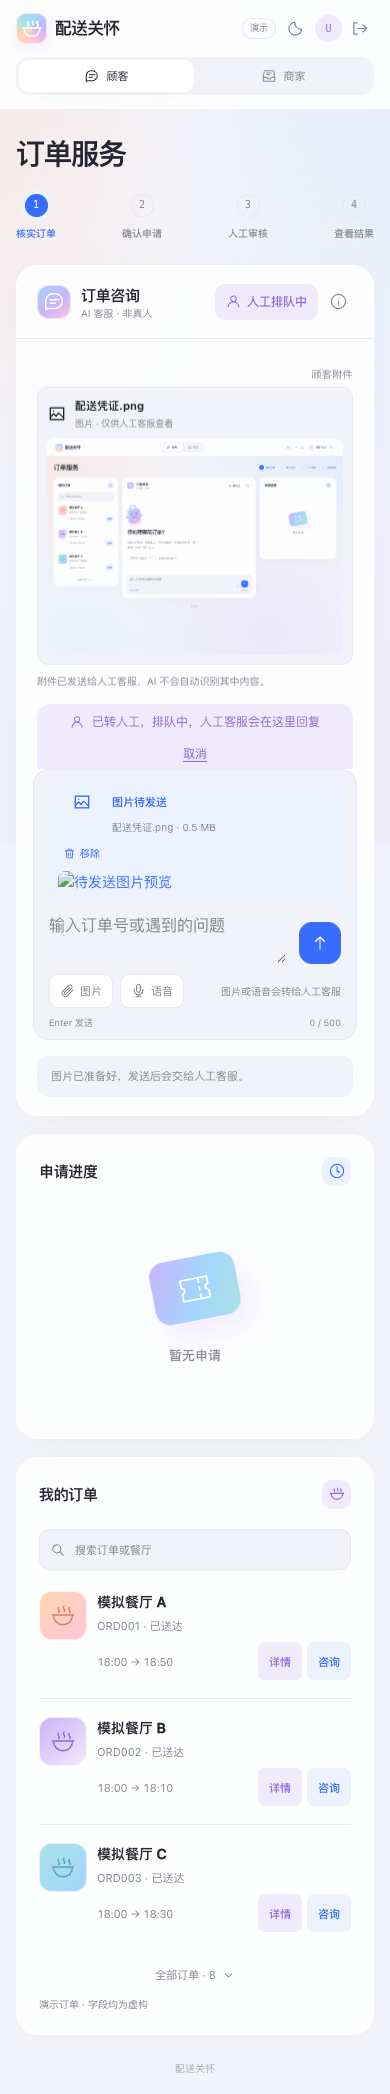
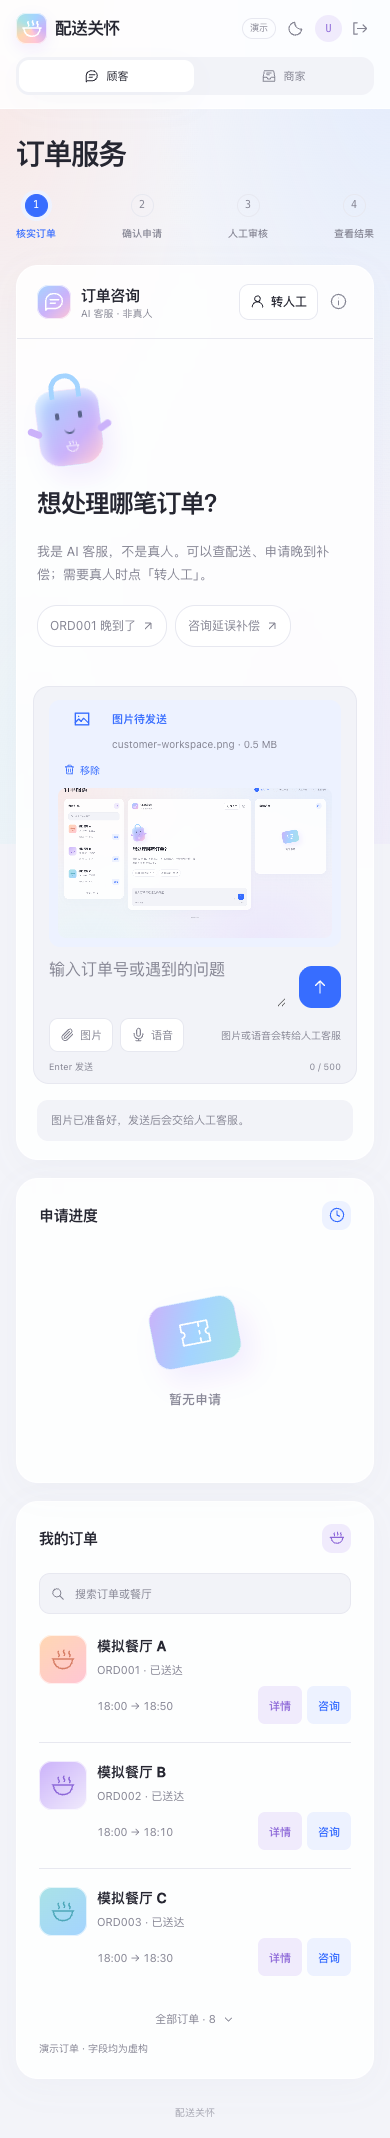
fix: allow local media previews under CSP
Permit same-origin blob image and audio previews while keeping all remote sources blocked. Refresh the mobile UI evidence after waiting for the image preview to load.

diff --git a/examples/ord001/ord001_web.py b/examples/ord001/ord001_web.py
@@ -42,7 +42,7 @@ MEDIA_TYPES = {
 }
 # Host names a local browser or the in-process test client sends. Others are refused (DNS rebinding).
 LOCAL_HOSTS = ("127.0.0.1", "localhost", "testserver")
-CSP = "default-src 'self'; base-uri 'none'; form-action 'self'"
+CSP = "default-src 'self'; base-uri 'none'; form-action 'self'; img-src 'self' blob:; media-src 'self' blob:"
 
 
 class SecurityHeaders:
